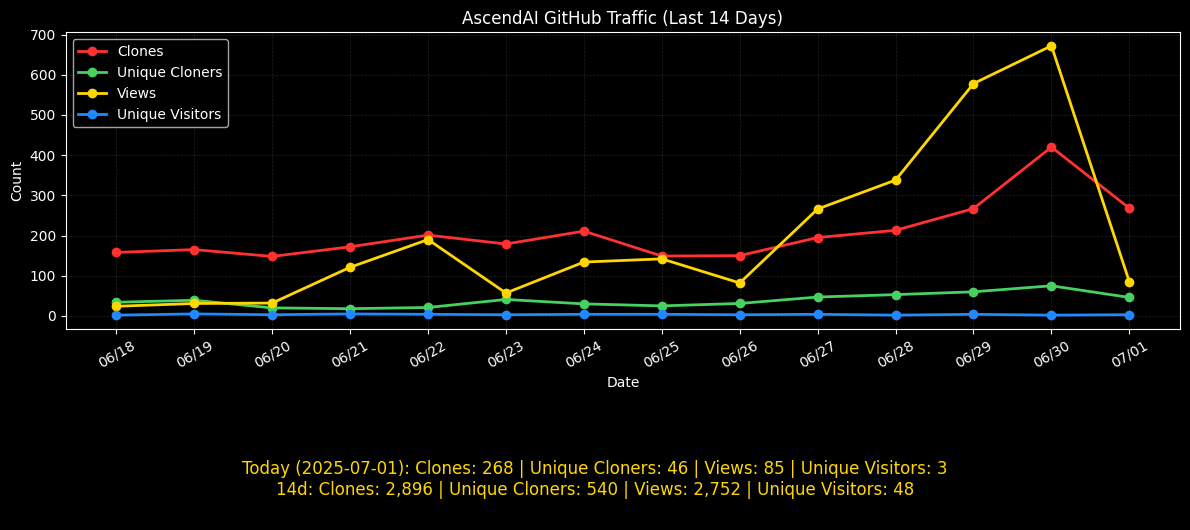
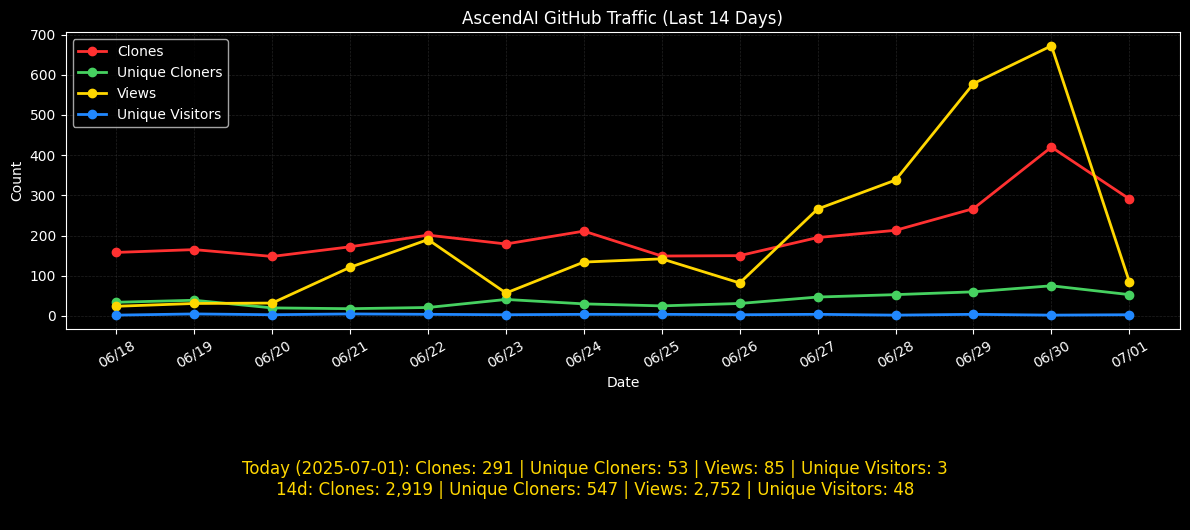
Update traffic data and graph

diff --git a/docs/graph/traffic_totals.md b/docs/graph/traffic_totals.md
@@ -1,6 +1,6 @@
 
 **GitHub Traffic Totals**
 
-- **Today (2025-07-01):** Clones: 268 | Unique Cloners: 46 | Views: 85 | Unique Visitors: 3
-- **Last 14 days:** Clones: 2,896 | Unique Cloners: 540 | Views: 2,752 | Unique Visitors: 48
+- **Today (2025-07-01):** Clones: 291 | Unique Cloners: 53 | Views: 85 | Unique Visitors: 3
+- **Last 14 days:** Clones: 2,919 | Unique Cloners: 547 | Views: 2,752 | Unique Visitors: 48
 - **Lifetime:** Clones: 2,611 | Unique Cloners: 530 | Views: 2,445 | Unique Visitors: 53
